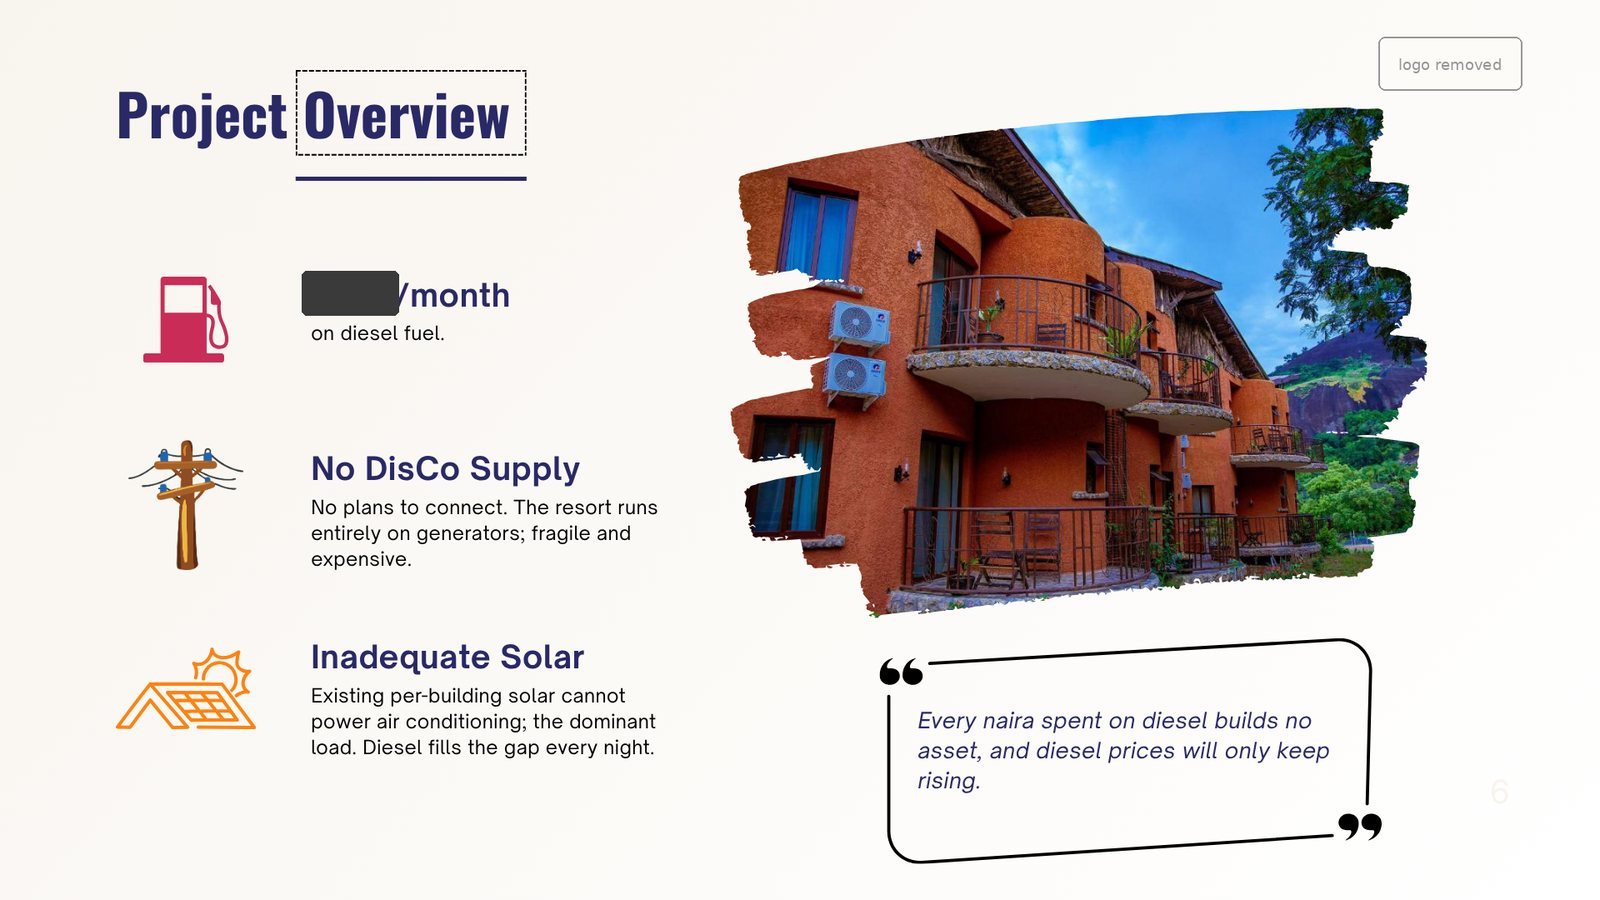
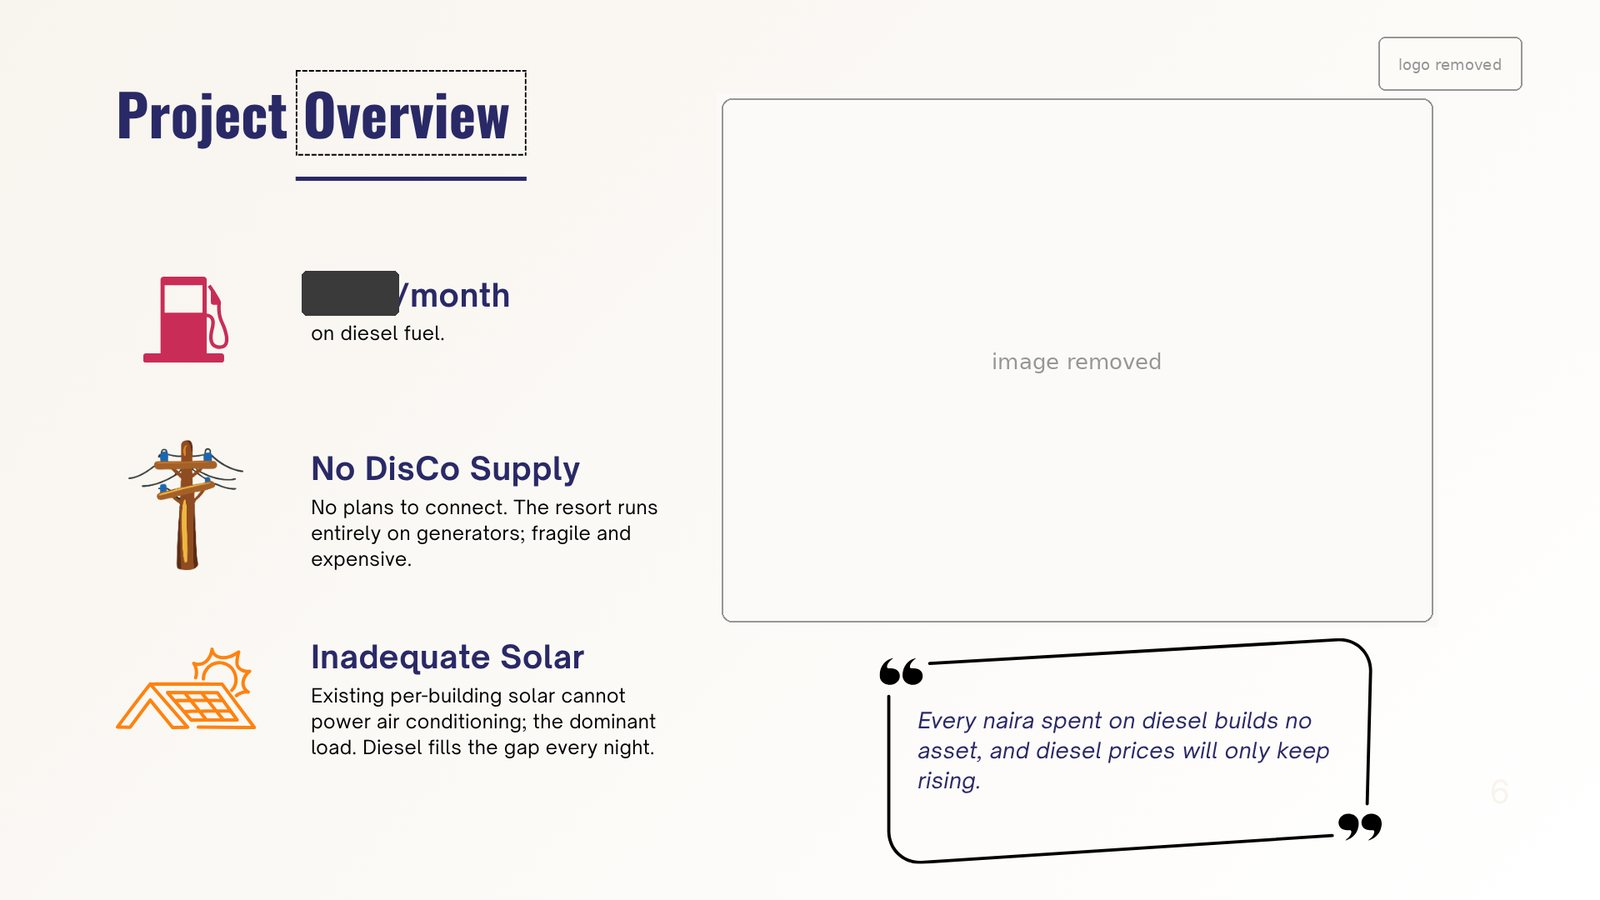
Home links update

Changed region(s): [[0.4375, 0.0933, 0.9062, 0.6844]]

diff --git a/index.html b/index.html
@@ -139,6 +139,11 @@ figcaption{font-family:var(--display);font-size:15px;color:var(--muted);margin-t
 .dims text{font-family:var(--display);font-size:17px;fill:var(--ink)}
 .dims text.big{font-weight:700;font-size:32px;fill:var(--ink)}
 .dims text.note{fill:var(--muted);font-size:15px}
+.dims a{pointer-events:auto;cursor:pointer}
+.dims a .hit{fill:transparent}
+.dims a:hover text,.dims a:focus-visible text{text-decoration:underline}
+.dims a:focus{outline:none}
+.dims a:focus-visible .hit{stroke:var(--ink);stroke-width:1.5}
 .draw .dim{stroke-dasharray:1;stroke-dashoffset:1;animation:ink 1.3s cubic-bezier(.6,.1,.3,1) .3s forwards}
 .draw text{opacity:0;animation:appear .6s ease 1.2s forwards}
 @keyframes ink{to{stroke-dashoffset:0}}
@@ -373,22 +378,31 @@ html.viewer-open{overflow:hidden}
             <img src="files/portrait.jpg" alt="Shalom Karunwi" width="1200" height="1400" onerror="this.parentNode.classList.add('missing')">
             <span class="ph">Photo to add: files/portrait.jpg</span>
           </div>
-          <svg class="dims draw" viewBox="0 0 560 600" aria-hidden="true">
+          <svg class="dims draw" viewBox="0 0 560 600">
             <rect class="frame" x="40" y="40" width="360" height="450"/>
             <!-- vertical dimension -->
             <path class="dim" pathLength="1" d="M432 40 V490 M424 40 H440 M424 490 H440 M428 48 L432 40 L436 48 M428 482 L432 490 L436 482"/>
-            <text class="big" x="448" y="250">62.7</text>
-            <text x="448" y="274">N-PSMI baseline</text>
-            <text class="note" x="448" y="294">index I designed</text>
+            <a href="#research" aria-label="62.7, the N-PSMI baseline: see the research">
+              <rect class="hit" x="440" y="218" width="122" height="86"/>
+              <text class="big" x="448" y="250">62.7</text>
+              <text x="448" y="274">N-PSMI baseline</text>
+              <text class="note" x="448" y="294">index I designed</text>
+            </a>
             <!-- horizontal dimension -->
             <path class="dim" pathLength="1" d="M40 522 H400 M40 512 V532 M400 512 V532 M48 518 L40 522 L48 526 M392 518 L400 522 L392 526"/>
-            <text class="big" x="40" y="566">24</text>
-            <text x="82" y="560">episodes produced</text>
+            <a href="#speaking" aria-label="24 podcast episodes produced: see Speaking and media">
+              <rect class="hit" x="34" y="532" width="232" height="44"/>
+              <text class="big" x="40" y="566">24</text>
+              <text x="82" y="560">episodes produced</text>
+            </a>
             <!-- leader -->
             <path class="dim" pathLength="1" d="M400 110 L440 110 L456 140 H556"/>
             <circle cx="400" cy="110" r="4" fill="var(--ink)"/>
-            <text x="456" y="132">NIEP-SIP</text>
-            <text class="note" x="456" y="160">two chapters</text>
+            <a href="#research" aria-label="NIEP-SIP, two chapters authored: see the research">
+              <rect class="hit" x="450" y="112" width="110" height="56"/>
+              <text x="456" y="132">NIEP-SIP</text>
+              <text class="note" x="456" y="160">two chapters</text>
+            </a>
           </svg>
         </figure>
       </div>
@@ -769,7 +783,7 @@ html.viewer-open{overflow:hidden}
               <li><strong>Quality assurance</strong><span>Test IO, from 2023</span></li>
               <li><strong>Junior data analyst</strong><span>NOIPolls, 2023 to 2024</span></li>
               <li><strong>Data analyst</strong><span>Nextier Power, 2024 to 2025</span></li>
-              <li class="now"><strong>Energy research, policy and data analyst</strong><span>Nextier Power, 2026 to now. Promoted after 13 months.</span></li>
+              <li class="now"><strong>Energy research, policy and data analyst</strong><span>Nextier Power, 2026 to now</span></li>
             </ol>
           </div>
         </div>
